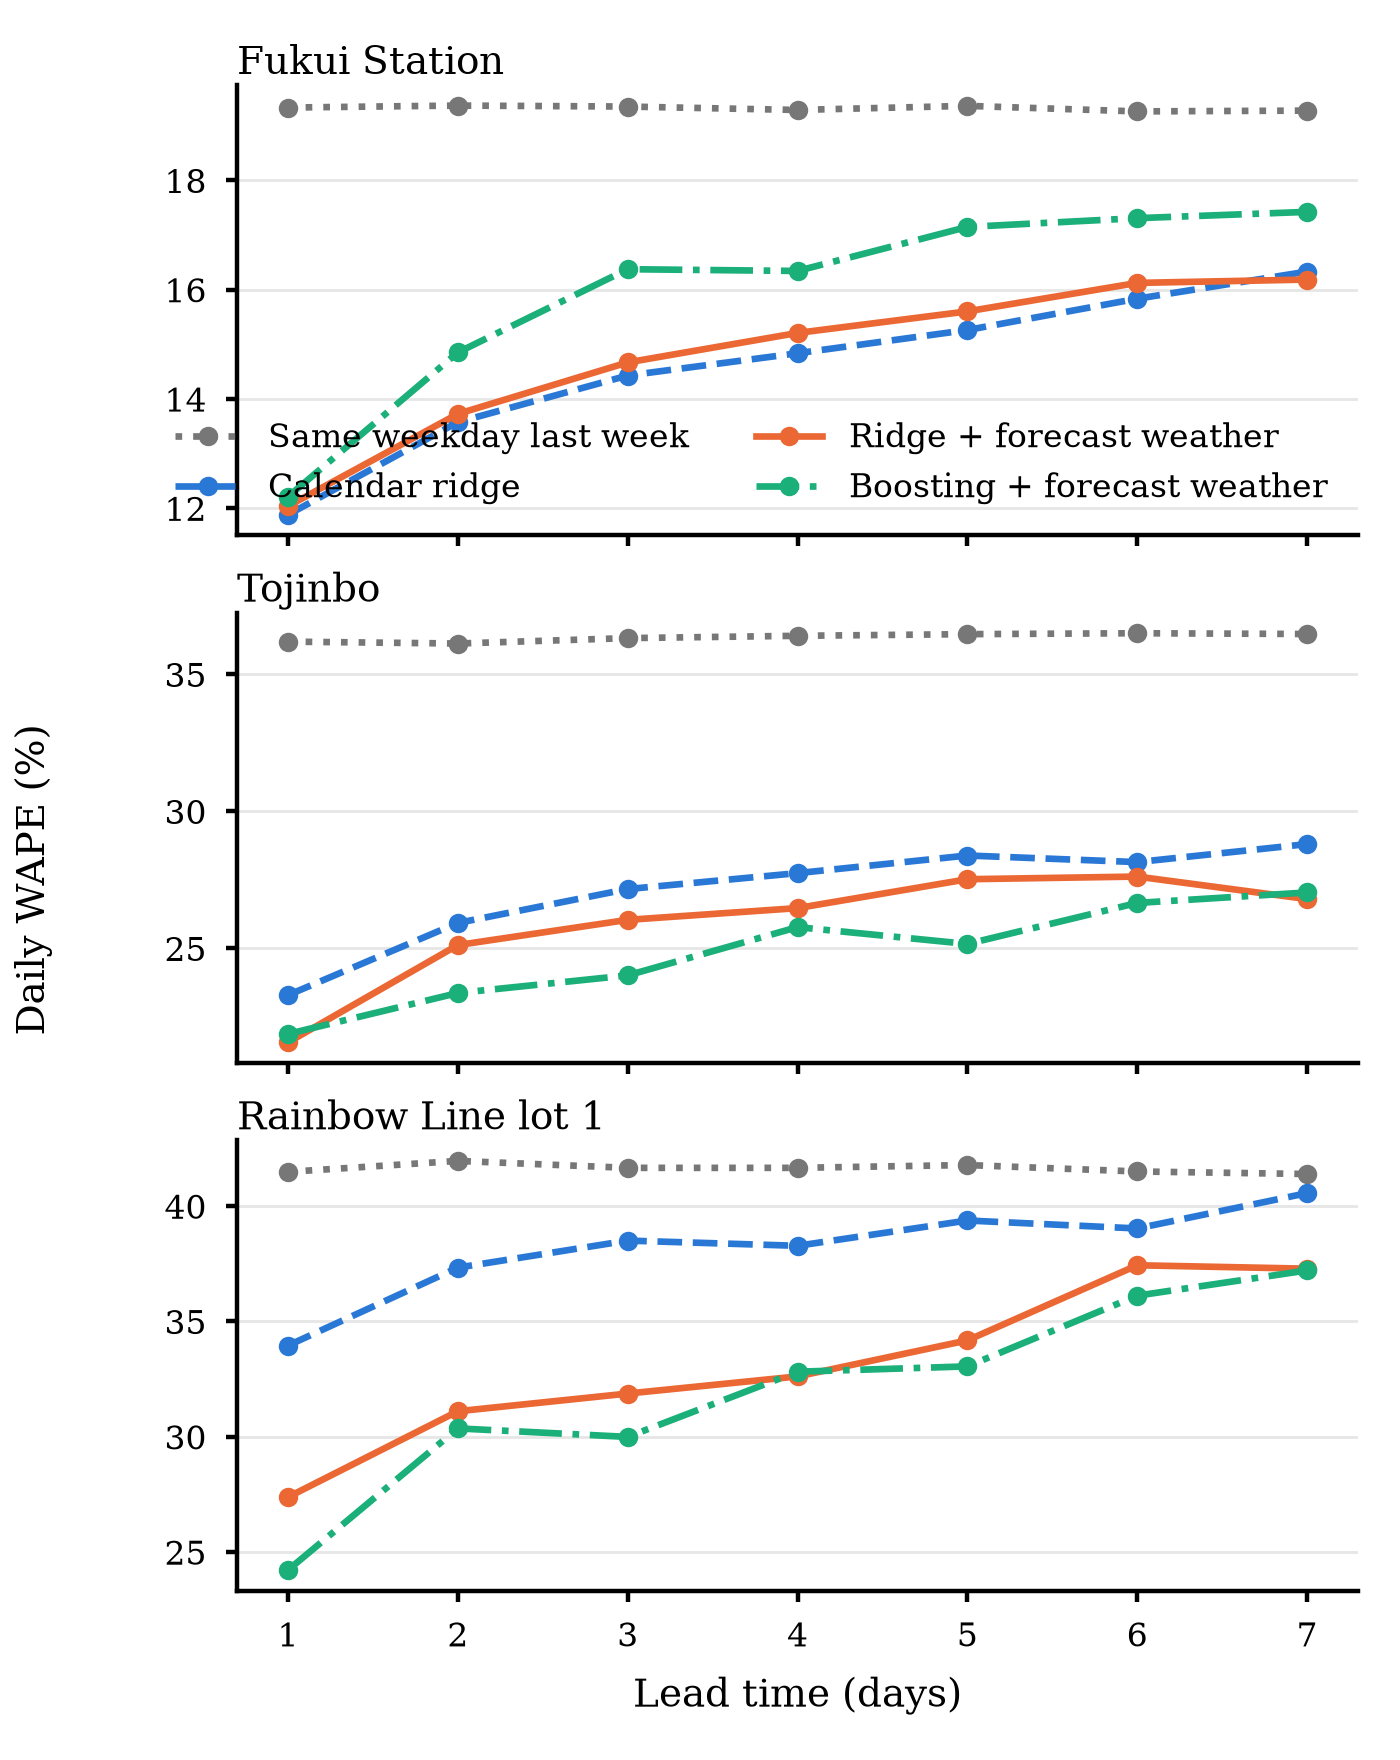
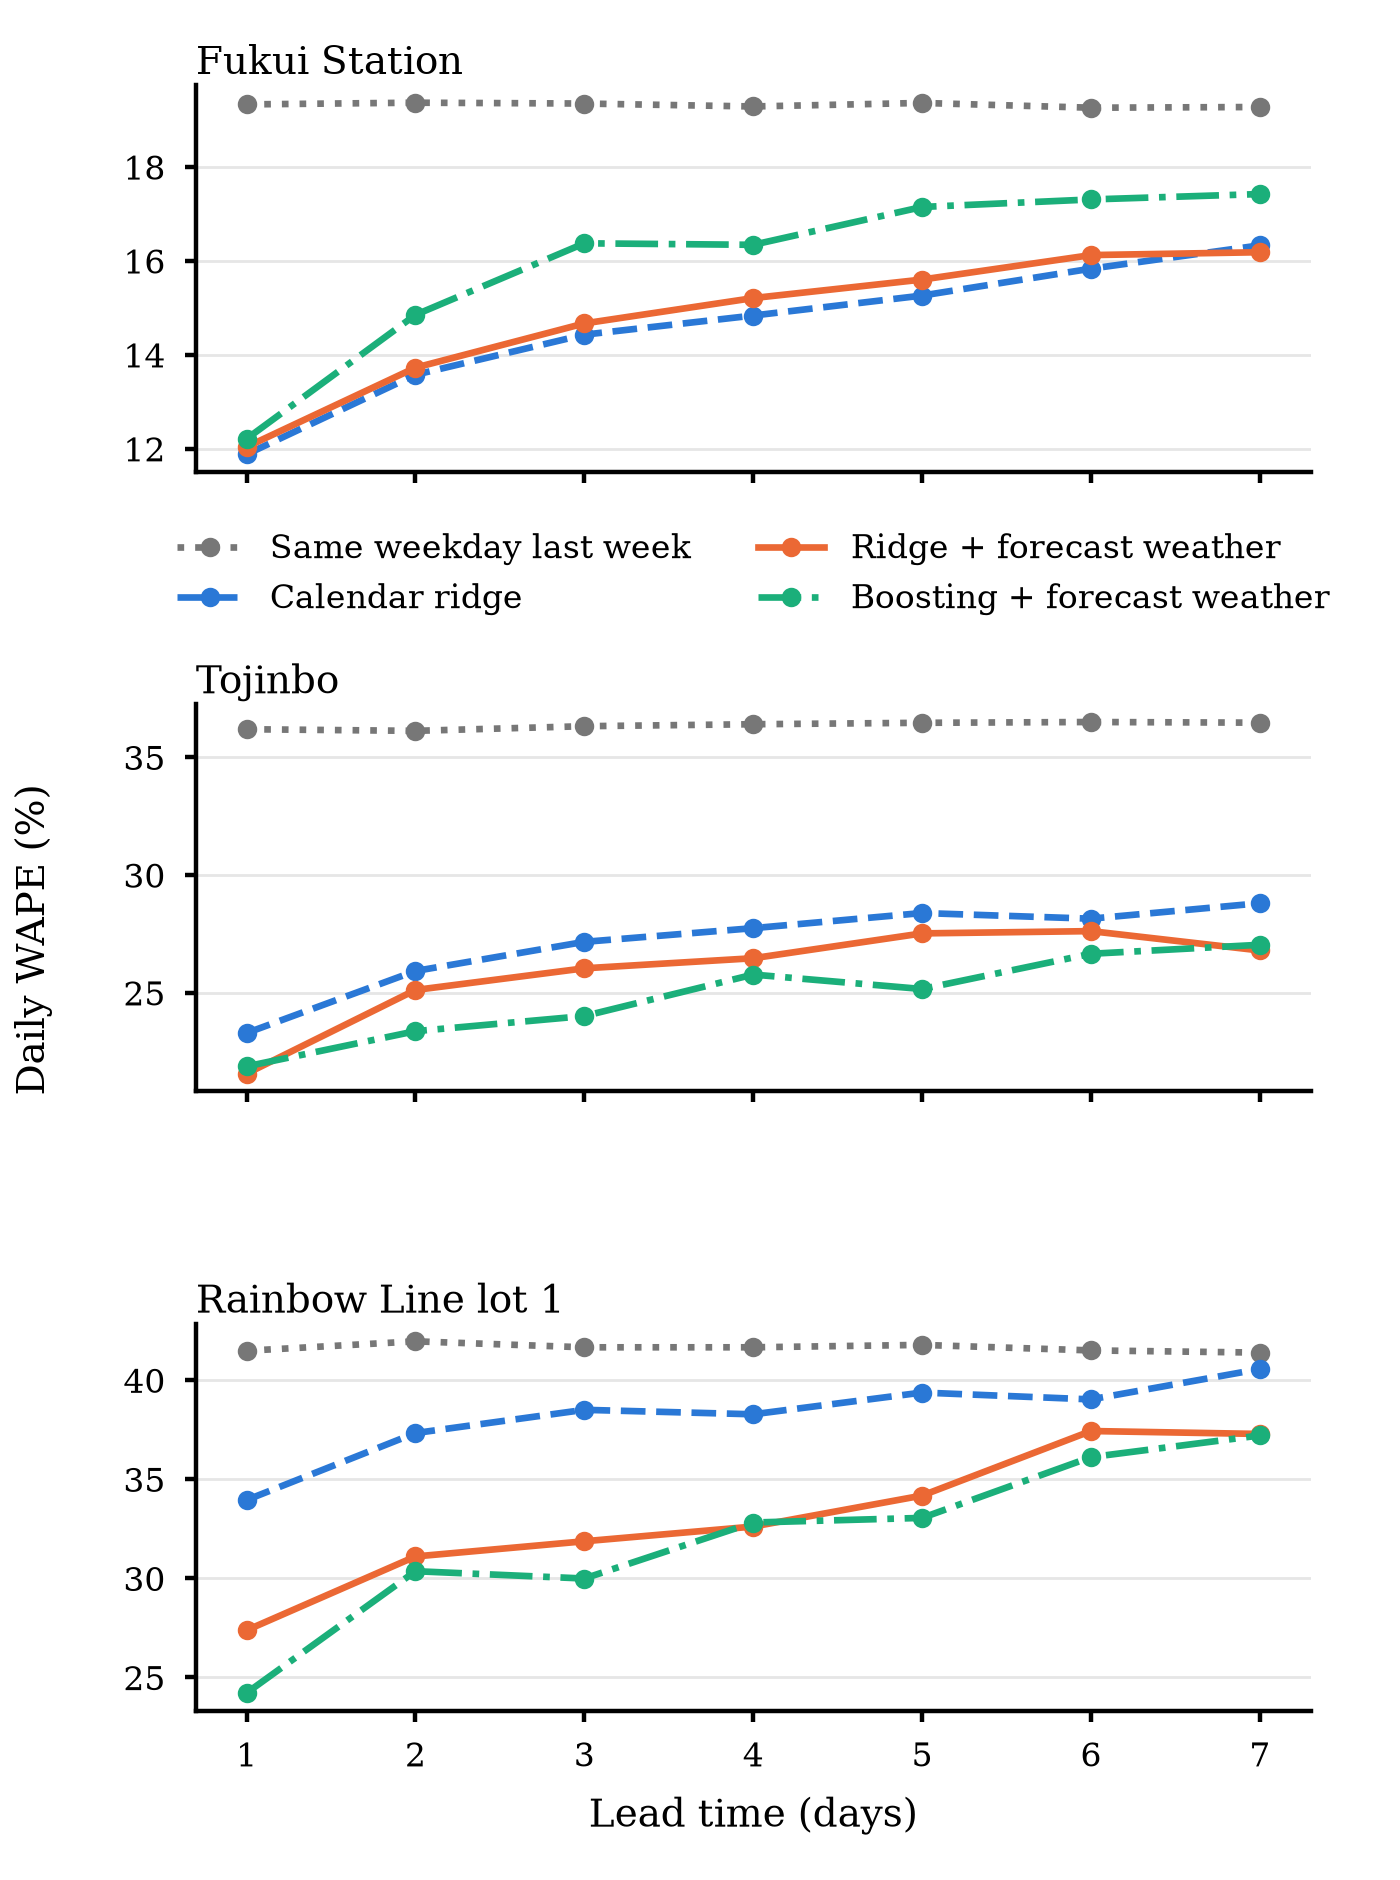
scans: window sensitivity and faces recall (scan07); lead-time figure legend below panels

diff --git a/scripts/scan07.py b/scripts/scan07.py
@@ -1,0 +1,75 @@
+"""Scan 7: sensitivity of the headline results to the active-hours window.
+Reruns the weather regression (JMA) and the 3-day ex-ante forecast test with
+the window defined at 1%, 2% (paper) and 5% share thresholds, and with the
+fixed 09:00-17:00 window. Also reports recall for the faces busy-day warning.
+Writes ../out/20261014_window_sensitivity.md.
+"""
+import warnings
+import numpy as np
+import pandas as pd
+import statsmodels.formula.api as smf
+import common
+from common import WX_SITE, daily_counts, daytype
+import scan03 as s3
+
+warnings.filterwarnings("ignore")
+L = []
+def p(x=""): L.append(x); print(x, flush=True)
+def tbl(df, fmt="{:.2f}"):
+    cols = [str(c) for c in df.columns]
+    p("| " + " | ".join([df.index.name or ""] + cols) + " |"); p("|" + "---|" * (len(cols) + 1))
+    for i, r in df.iterrows():
+        p("| " + " | ".join([str(i)] + [fmt.format(v) if isinstance(v, (float, np.floating)) else str(v) for v in r]) + " |")
+    p()
+
+VARIANTS = {"1% share": dict(min_share=0.01), "2% share (paper)": dict(min_share=0.02), "5% share": dict(min_share=0.05), "fixed 09:00-17:00": "fixed"}
+orig_active = common.active_hours
+def make_active(spec):
+    if spec == "fixed":
+        return lambda site, **kw: {m: list(range(9, 18)) for m in range(1, 13)}
+    return lambda site, **kw: orig_active(site, **{**kw, **spec})
+
+p("# Window sensitivity (scan 07)\n")
+p("Headline results under four definitions of the active-hours window. Rain effect: JMA, % per 10 mm with 95% interval. Forecast test: 3-day WAPE, calendar ridge vs ridge with the archived forecast, Diebold-Mariano p.\n")
+rows = []
+for name, spec in VARIANTS.items():
+    common.active_hours = make_active(spec); s3.active_hours = common.active_hours
+    s3.daily_weather_active = common.daily_weather_active
+    for k in s3.FEEDS:
+        w = common.daily_weather_active(WX_SITE[k], source="jma")
+        f = pd.DataFrame({"ly": np.log1p(s3.D[k])}).join(w).dropna()
+        dt = daytype(f.index); f["dow"] = f.index.dayofweek.astype(str); f["hol"] = (dt.values == "holiday").astype(int); f["ym"] = f.index.to_period("M").astype(str)
+        m = smf.ols("ly ~ C(dow) + hol + C(ym) + rain_mm + gust_ms + sun_h + temp_c", f).fit(cov_type="HAC", cov_kwds={"maxlags": 7})
+        b, se = m.params["rain_mm"] * 10, m.bse["rain_mm"] * 10
+        rain = f"{100*(np.exp(b)-1):+.0f} [{100*(np.exp(b-1.96*se)-1):+.0f}, {100*(np.exp(b+1.96*se)-1):+.0f}]"
+        P = {mm: s3.run(k, 3, mm) for mm in ["calendar", "forecast"]}
+        y = P["calendar"][1]
+        idx = P["calendar"][0].index.intersection(P["forecast"][0].index); idx = idx[y.loc[idx].notna() & (y.loc[idx] > 0)]
+        yy = y.loc[idx].values
+        wc = 100 * np.abs(P["calendar"][0].loc[idx].values - yy).sum() / yy.sum()
+        wf = 100 * np.abs(P["forecast"][0].loc[idx].values - yy).sum() / yy.sum()
+        t, pv = s3.dm_test(pd.Series(P["calendar"][0].loc[idx].values - yy), pd.Series(P["forecast"][0].loc[idx].values - yy))
+        rows.append({"window": name, "site": s3.NAMES[k], "rain % per 10 mm": rain, "3d WAPE calendar": wc, "3d WAPE + forecast": wf, "DM p": pv})
+        print(name, k, "done", flush=True)
+common.active_hours = orig_active; s3.active_hours = orig_active
+R = pd.DataFrame(rows).set_index("window"); tbl(R)
+
+# faces busy-day warning: recall
+p("## Faces warning at Rainbow Line (lots 1+2, paper outage rule): precision and recall\n")
+from common import load
+def daily(site, cls):
+    d = load("5min", site, cls).set_index("t0")["count"]; g = d.groupby(d.index.normalize()); tot, n = g.sum(), g.size(); tot[n < 0.8 * 288] = np.nan; return tot
+S1, S2 = "rainbow-line-parking-lot-1-gate", "rainbow-line-parking-lot-2-gate"
+p1, p2, f1, f2 = daily(S1, "LicensePlate"), daily(S2, "LicensePlate"), daily(S1, "Face"), daily(S2, "Face")
+idx = p1.index.union(p2.index).union(f1.index).union(f2.index); p1, p2, f1, f2 = (s.reindex(idx) for s in (p1, p2, f1, f2))
+lot1_on = p1 > 0
+series = {"plates": (p1 + p2).where(lot1_on), "faces": (f1 + f2).where(lot1_on)}
+orig = s3.D.copy(); out = []
+for name, ser in series.items():
+    s3.D = orig.copy(); s3.D["rl1"] = ser.asfreq("D")
+    for mode in ["calendar", "forecast"]:
+        r = s3.busy_eval("rl1", "top", mode, h=3)
+        out.append({"series": name, "weather": mode, "days": r["days"], "AUC": r["AUC [95% CI]"], "precision": r["precision"], "recall": r["recall"]})
+s3.D = orig
+tbl(pd.DataFrame(out).set_index("series"))
+open("../out/20261014_window_sensitivity.md", "w").write("\n".join(L))

diff --git a/scripts/fig_leadtime.py b/scripts/fig_leadtime.py
@@ -6,7 +6,7 @@ import matplotlib.pyplot as plt
 OUT = Path(__file__).resolve().parent.parent / "out"; FIG = OUT / "figures"
 lt = pd.read_csv(OUT / "20261012_lead_time.csv")
 plt.rcParams.update({"font.family": "serif", "font.size": 7})
-fig, axes = plt.subplots(3, 1, figsize=(3.5, 4.4), sharex=True)
+fig, axes = plt.subplots(3, 1, figsize=(3.5, 4.7), sharex=True)
 styles = [("naive", ":", "#777777", "Same weekday last week"), ("calendar", "--", "#2a78d6", "Calendar ridge"),
           ("ridge_fcst", "-", "#eb6834", "Ridge + forecast weather"), ("gbm", "-.", "#1baf7a", "Boosting + forecast weather")]
 for ax, (site, g) in zip(axes, lt.groupby("site", sort=False)):
@@ -14,6 +14,6 @@ for ax, (site, g) in zip(axes, lt.groupby("site", sort=False)):
         gg = g[g.model == m]; ax.plot(gg.lead_days, gg.wape, ls, color=col, marker="o", ms=2.5, lw=1.2, label=lab)
     ax.set_title(site, fontsize=7, loc="left", pad=2); ax.grid(axis="y", color="#e6e6e6", lw=0.5)
     ax.spines[["top", "right"]].set_visible(False); ax.tick_params(length=2, labelsize=6); ax.set_xticks(range(1, 8))
-axes[0].legend(frameon=False, fontsize=6, ncol=2, loc="lower right")
+axes[0].legend(frameon=False, fontsize=6, ncol=2, loc="upper center", bbox_to_anchor=(0.5, -0.08))
 axes[-1].set_xlabel("Lead time (days)", fontsize=7); fig.supylabel("Daily WAPE (%)", fontsize=7, x=0.01)
 fig.tight_layout(h_pad=0.6); fig.savefig(FIG / "lead_time_wape.pdf"); fig.savefig(FIG / "lead_time_wape.png", dpi=400); print("ok")

diff --git a/out/20261014_window_sensitivity.md b/out/20261014_window_sensitivity.md
@@ -1,0 +1,27 @@
+# Window sensitivity (scan 07)
+
+Headline results under four definitions of the active-hours window. Rain effect: JMA, % per 10 mm with 95% interval. Forecast test: 3-day WAPE, calendar ridge vs ridge with the archived forecast, Diebold-Mariano p.
+
+| window | site | rain % per 10 mm | 3d WAPE calendar | 3d WAPE + forecast | DM p |
+|---|---|---|---|---|---|
+| 1% share | Fukui Station | -3 [-5, -1] | 14.43 | 14.62 | 0.22 |
+| 1% share | Tojinbo | -9 [-12, -5] | 27.16 | 25.87 | 0.16 |
+| 1% share | Rainbow Line lot 1 | -35 [-44, -23] | 38.50 | 31.78 | 0.00 |
+| 2% share (paper) | Fukui Station | -3 [-6, -1] | 14.43 | 14.67 | 0.12 |
+| 2% share (paper) | Tojinbo | -9 [-13, -5] | 27.16 | 26.04 | 0.22 |
+| 2% share (paper) | Rainbow Line lot 1 | -37 [-47, -24] | 38.50 | 31.87 | 0.00 |
+| 5% share | Fukui Station | -3 [-6, -1] | 14.43 | 14.69 | 0.08 |
+| 5% share | Tojinbo | -10 [-16, -5] | 27.16 | 26.09 | 0.25 |
+| 5% share | Rainbow Line lot 1 | -37 [-49, -22] | 38.50 | 32.14 | 0.00 |
+| fixed 09:00-17:00 | Fukui Station | -3 [-6, -1] | 14.43 | 14.70 | 0.08 |
+| fixed 09:00-17:00 | Tojinbo | -9 [-13, -5] | 27.16 | 26.18 | 0.28 |
+| fixed 09:00-17:00 | Rainbow Line lot 1 | -40 [-51, -26] | 38.50 | 32.59 | 0.00 |
+
+## Faces warning at Rainbow Line (lots 1+2, paper outage rule): precision and recall
+
+| series | weather | days | AUC | precision | recall |
+|---|---|---|---|---|---|
+| plates | calendar | 295 | 0.83 [0.77, 0.89] | 0.78 | 0.50 |
+| plates | forecast | 295 | 0.88 [0.84, 0.92] | 0.84 | 0.60 |
+| faces | calendar | 296 | 0.91 [0.86, 0.96] | 0.90 | 0.41 |
+| faces | forecast | 296 | 0.93 [0.87, 0.98] | 1.00 | 0.50 |
